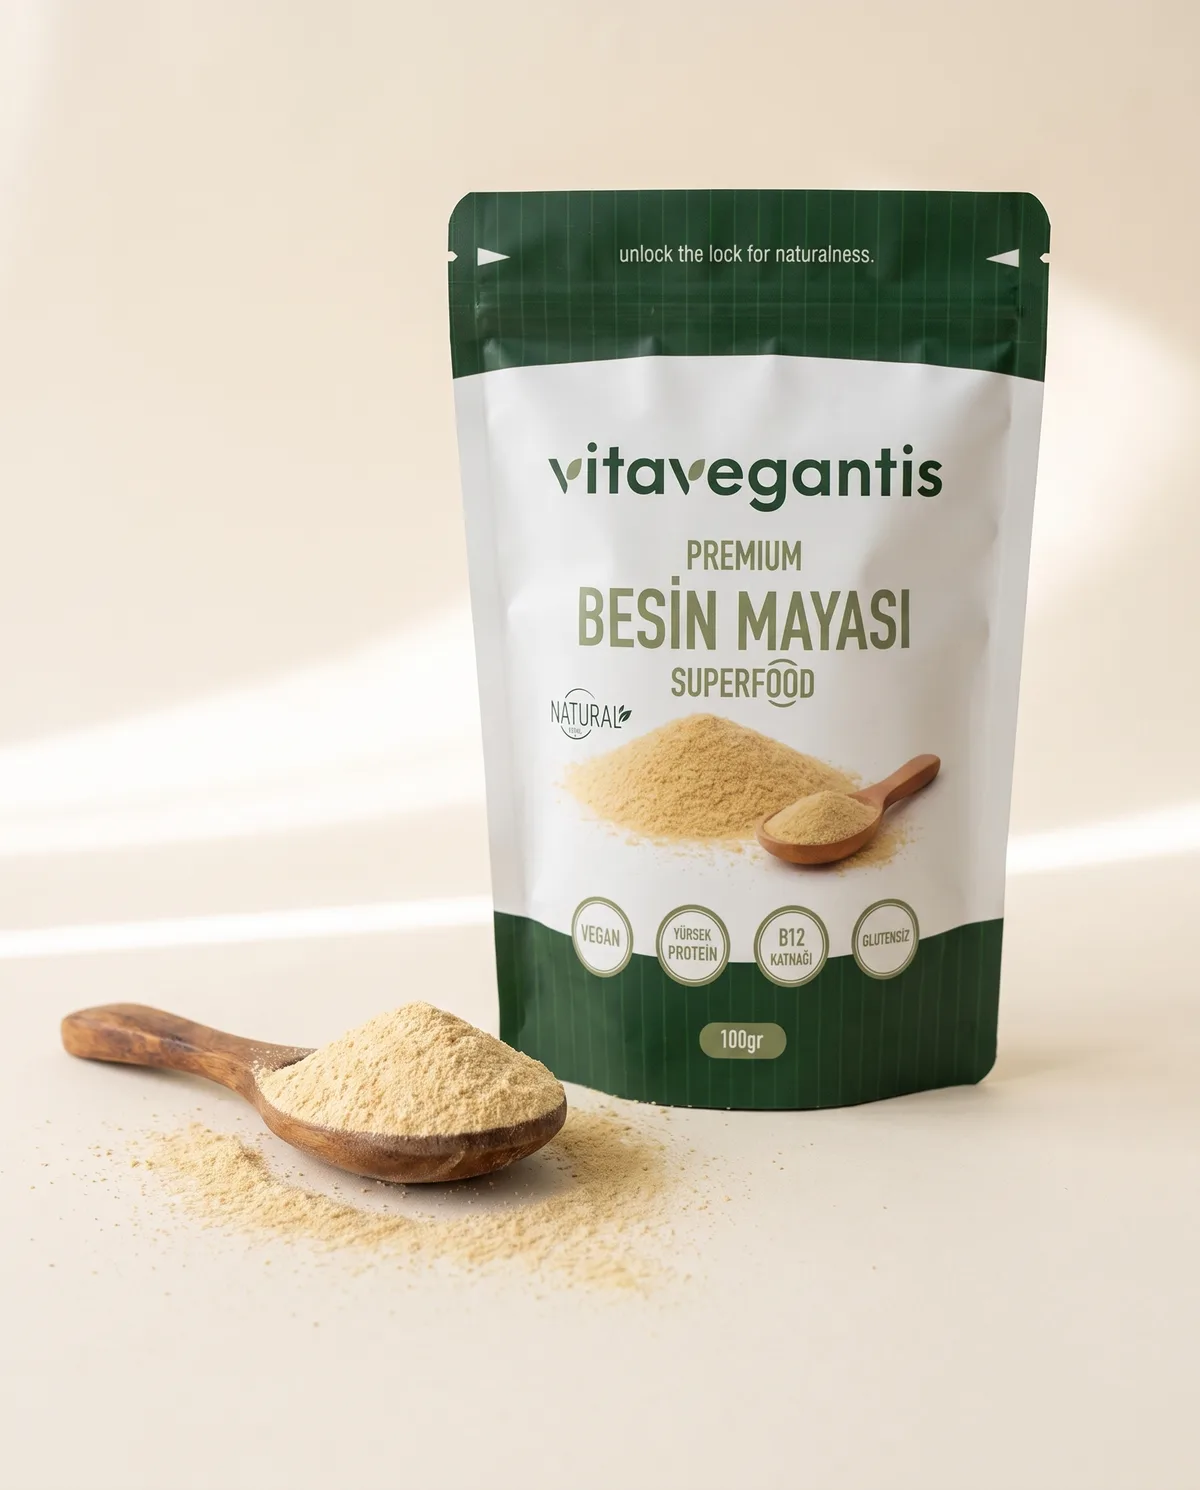
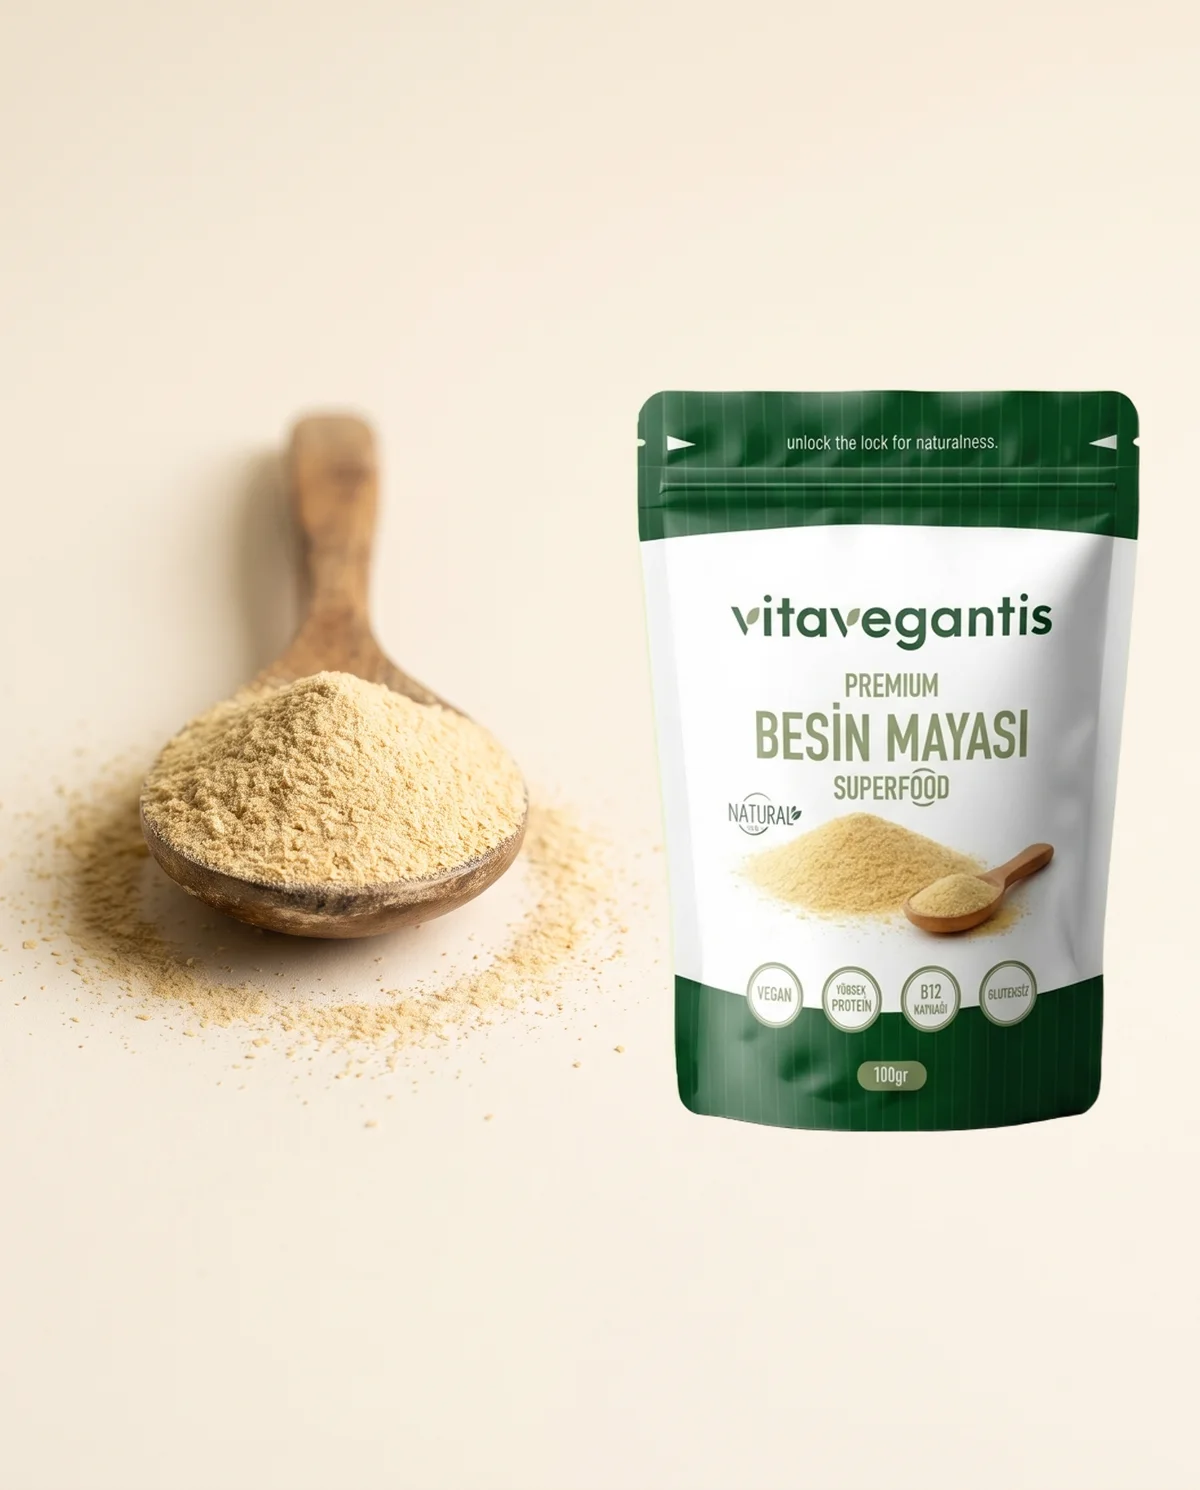
Correct the last two nutritional-yeast images
Regenerates the Vegan Sosis ingredient photo so its yeast is powder like
the rest, with coordinates re-measured for the new layout.

Rebuilds the Besin Mayası scene by compositing the real package cutout
over a generated powder still life. The previous version let the model
redraw the label, which garbled the Turkish ("YÜRSEK PROTEİN", "B12
KATNAĞI"); using the actual product photo keeps the text exact.

Note for future compositing: sharp applies resize before composite
regardless of call order, so the two steps have to be separate sharp
pipelines or the offsets land in the resized coordinate space.

diff --git a/src/lib/ingredientMaps.ts b/src/lib/ingredientMaps.ts
@@ -10,15 +10,15 @@ export type IngredientMap = {
 // koordinatların da yeniden ölçülmesi gerekir.
 const hotspots: Record<string, IngredientHotspot[]> = {
   "vegan-sosis": [
-    { name: "Tofu", x: 49.3, y: 15.3 },
-    { name: "Nohut Unu", x: 70.5, y: 21.7 },
-    { name: "Yulaf Unu", x: 82.0, y: 38.8 },
-    { name: "Besin Mayası", x: 82.0, y: 62.2 },
-    { name: "Buğday Gluteni", x: 66.7, y: 78.1 },
-    { name: "Kurutulmuş Sebzeler", x: 42.0, y: 82.5 },
-    { name: "Ayçiçek Yağı", x: 18.6, y: 64.5 },
-    { name: "Soya Sosu", x: 19.8, y: 39.1 },
-    { name: "Baharat Karışımı", x: 29.6, y: 22.5 },
+    { name: "Tofu", x: 39.1, y: 14.1 },
+    { name: "Nohut Unu", x: 63.6, y: 15.0 },
+    { name: "Yulaf Unu", x: 82.7, y: 30.5 },
+    { name: "Besin Mayası", x: 85.9, y: 55.9 },
+    { name: "Buğday Gluteni", x: 75.0, y: 82.3 },
+    { name: "Kurutulmuş Sebzeler", x: 42.7, y: 82.7 },
+    { name: "Ayçiçek Yağı", x: 19.5, y: 75.5 },
+    { name: "Soya Sosu", x: 15.0, y: 51.4 },
+    { name: "Baharat Karışımı", x: 21.8, y: 29.1 },
   ],
 
   "ispanakli-sosis": [
